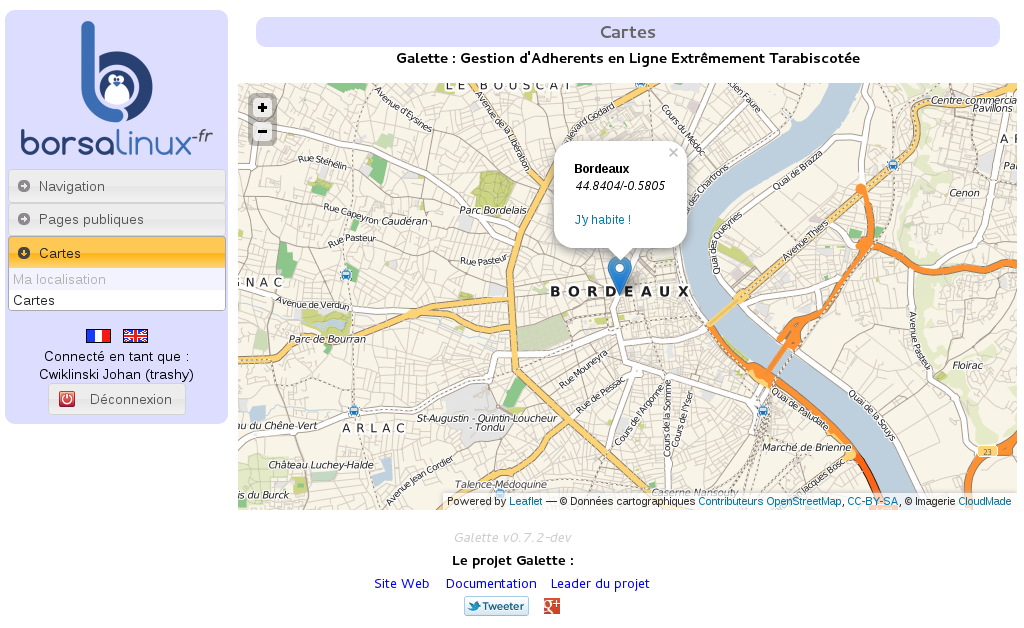
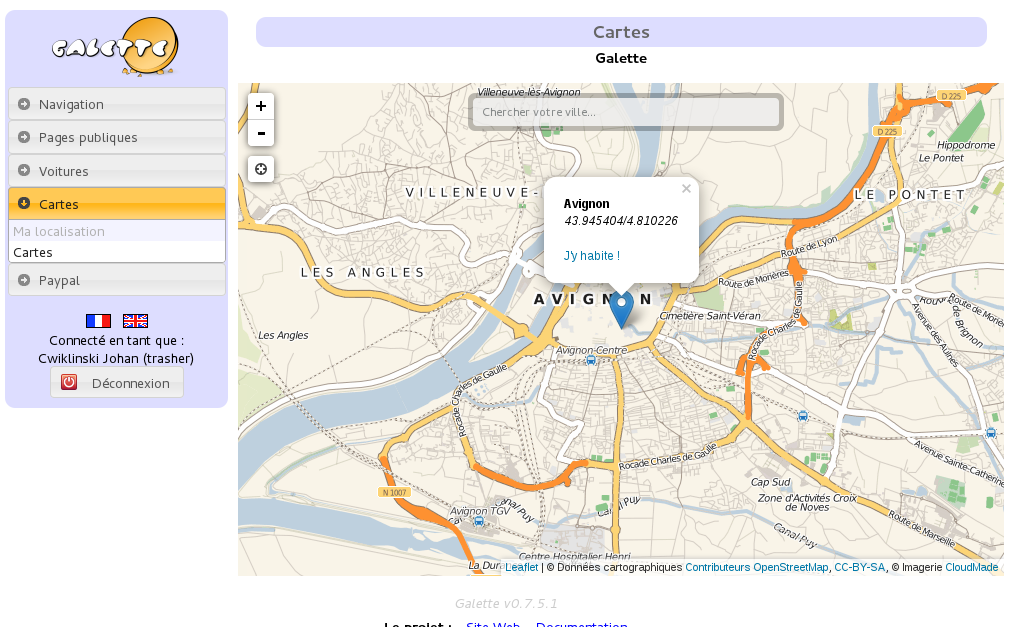
Documentation de la nouvelle version du plugin maps

diff --git a/source/plugins/maps.rst b/source/plugins/maps.rst
@@ -28,19 +28,25 @@ Initialisation de la base de données
 
 Pour fonctionner, le plugin requiert des tables dans la base de données. Galette fournit une :ref:`interface de gestion des plugins <plugins_managment>`, qui est en mesure de se charger des installations et mises à jour de la base de données du plugin.
 
-L'une des tables créée a pour vocation de recevoir une liste de villes avec leurs coordonnées, pour fournir des proposition à l'enregistrement des coordonnées. Veuillez vous référer au fichier README pour connaître la façon de récupérer et d'importer ces données dans votre base Galette.
+L'une des tables créée a pour vocation de recevoir une liste de villes avec leurs coordonnées, pour fournir des proposition à l'enregistrement des coordonnées, selon la ville renseignée dans la fiche adhérent. Veuillez vous référer au fichier README pour connaître la façon de récupérer et d'importer ces données dans votre base Galette. Cette étape est optionnelle.
 
 Et voilà ; le plugin Maps est installé :-)
 
-Configuration du plugin
-=======================
+Utilisation du plugin
+=====================
 
 Lorsque le plugin est installé, un groupe `Cartes` est ajouté au menu, comprenant deux nouvelles entrées :
 
 * `Ma localisation` : cette page permet aux adhérents de définir leur localisation,
 * `Cartes` : affichage des membres localisés et à jour de leur cotisation. Les administrateurs et membres du bureau verront tous les profils, alors que les simples membres et les visiteurs anonymes ne verront que les profils publics.
 
-Dans un premier temps, vos adhérents devront entrer leur localisation, via l'entrée adéquate du menu. Si la base de données des villes a été initialisée (référez-vous à l'initialisation de la base de données ci-dessus), et que l'adhérent a renseigné sa ville sur sa fiche, une liste de possibilités d'emplacements lui sera soumise.
+Dans un premier temps, vos adhérents devront entrer leur localisation, via l'entrée adéquate du menu. Plusieurs options s'offrent à eux :
+
+* si les villes ont été importées (référez-vous à l'initialisation de la base de données ci-dessus), et que l'adhérent a renseigné sa ville sur sa fiche, une liste de possibilités d'emplacements lui sera soumise,
+* une zone de recherche permettant de chercher différents lieux (dont les résultats sont basés sur `OpenStreetMap <http://nominatim.openstreetmap.org/>`_) est disponible,
+* un bouton de géolocalisation est également disponible.
+
+La zone de recherche est disponible lors de l'enregistrement de la localisation de vos membres, ainsi que lors de la consultation des cartes, que ce soit pas les administrateurs ou les simples visiteurs.
 
 .. image:: ../_styles/static/images/plugin-maps/towns_list.png
    :scale: 70%
@@ -49,6 +55,12 @@ Dans un premier temps, vos adhérents devront entrer leur localisation, via l'en
 En sélectionnant l'une de ces propositions, ou en cliquant sur la carte, l'adhérent pourra définir son lieu de résidence (avec la présision qu'il désire) à l'aide de la fenêtre qui s'ouvrira.
 
 .. image:: ../_styles/static/images/plugin-maps/location_select.png
+   :scale: 70%
+   :align: center
+
+L'adhérent peut choisir de cliquer sur le bouton de géolocalisation, sa position sera définie approximativement en l'absence d'appareil GPS :
+
+.. image:: ../_styles/static/images/plugin-maps/geoloc.png
    :scale: 70%
    :align: center
 
@@ -61,7 +73,7 @@ Une fois ses coordonnées enregistrées, l'adhérent verra sa localisation affic
 Notes de fonctionnement
 =======================
 
-La page `galette/plugins/plugin-maps/maps.php` est accessible aux utilisateurs non authentifiés. Ceux-ci ne pourront voir que les membres ayant rendu leur profil public, et qui ssont à jour de leur cotisation. Les « simples adhérents » connectés auront accès aux mêmes informations, en plus de la possibilité de définir leur position géographique.
+La page `galette/plugins/plugin-maps/maps.php` est accessible aux utilisateurs non authentifiés. Ceux-ci ne pourront voir que les membres ayant rendu leur profil public, et qui sont à jour de leur cotisation. Les « simples adhérents » connectés auront accès aux mêmes informations, en plus de la possibilité de définir leur position géographique.
 
 Les administrateurs et membres du staff peuvent voir la localisation de tous les adhérents, mais ne peuvent la canger ni la supprimer.
 
